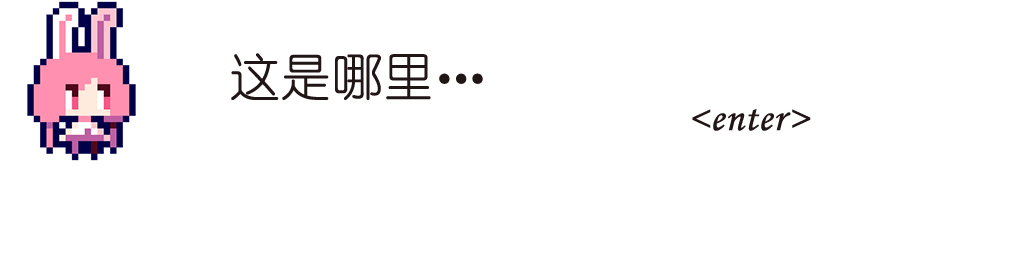
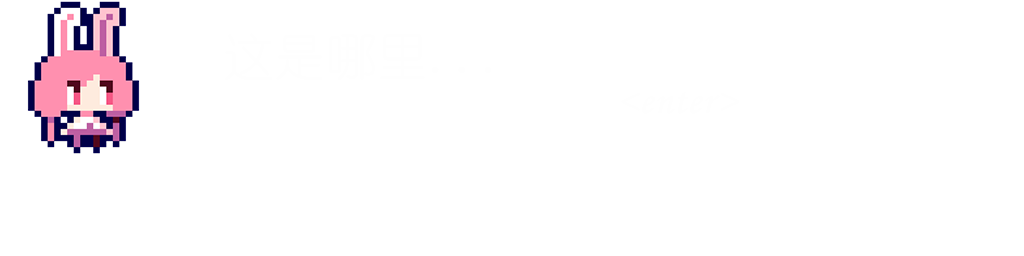
modify UI

Changed region(s): [[0.0, 0.0, 0.1562, 0.625], [0.2188, 0.1875, 0.4688, 0.4062], [0.6562, 0.4375, 0.8125, 0.5312]]

diff --git a/Project/public_html/src/Engine/UI/UIButton.js b/Project/public_html/src/Engine/UI/UIButton.js
@@ -18,16 +18,16 @@
  */
 function UIButton(callback, context, position, size, text, textSize) {
     // default BG colors = varying gray hues
-    this.mBgColor = [0.75,0.75,0.75,1];
-    this.mBgHoverColor = [0.5,0.5,0.5,1];
-    this.mBgClickColor = [0.25,0.2,0.25,1];
+    this.mBgColor = [7/256,73/256,115/256,1];
+    this.mBgHoverColor = [3/256,40/256,89/256,1];
+    this.mBgClickColor = [1/256,28/256,64/256,1];
     
     this.mBg = new UIRenderable(this.mBgColor, position, size);
     
     this.mStencil = new UITexture("assets/UI/ButtonStencil.png", position, size);
     
     // default Text colors = black or white depending on state
-    this.mTextColor = [0,0,0,1];
+    this.mTextColor = [93/256,138/256,166/256,1];
     this.mHoverTextColor = this.mTextColor;
     this.mClickTextColor = [1,1,1,1];
     
